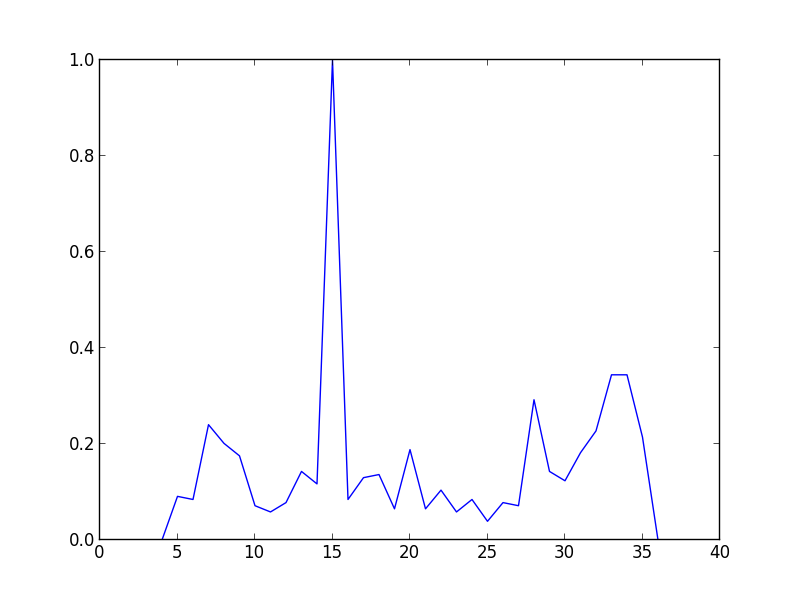
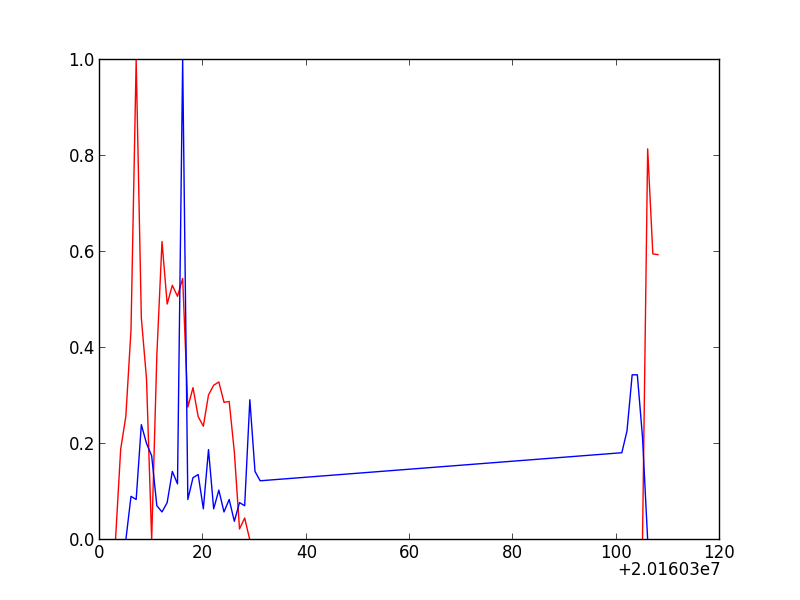
Daily commit

diff --git a/Analysis/TwitterGDELTGraphAnalysis.py b/Analysis/TwitterGDELTGraphAnalysis.py
@@ -10,7 +10,7 @@ from AnalysisObjectFactory import AnalysisObjectFactory
 AnalysisObjectFactory.initialFactory()
 
 def plotTwitter(candidate, start, end):
-    twitter_counts = GetHourlyTweetsDayRange.hourlyTweets(candidate, start, end)
+    twitter_counts, dates = GetHourlyTweetsDayRange.hourlyTweets(candidate, start, end)
     
     #change Nones to 0's
     i = 0
@@ -34,11 +34,12 @@ def plotTwitter(candidate, start, end):
     
     #generate x-axis
     x = list(range(0, len(daily_counts)))
-    plt.plot(x, daily_counts, 'r')
+    print x
+    plt.plot(dates, daily_counts, 'r')
     return daily_counts
 
 def plotGDELT(candidate, start, end):
-    GDELT_counts = GetDailyGDELTCounts.getGDELTCounts(candidate, start, end)
+    GDELT_counts, dates = GetDailyGDELTCounts.getGDELTCounts(candidate, start, end)
 
     #change Nones to 0's
     i = 0
@@ -55,7 +56,7 @@ def plotGDELT(candidate, start, end):
     
     #generate x-axis
     x = list(range(0, len(GDELT_counts)))
-    plt.plot(x, GDELT_counts, 'b')
+    plt.plot(dates, GDELT_counts, 'b')
     return GDELT_counts
 
 def main():
@@ -64,8 +65,8 @@ def main():
         print 'Usage: python TwitterGDELTGraphAnalysis.py <candidate, lower case> <start date> <end date>'
         print 'where date format is YYYYMMDD'
     else:
-        #tweets = plotTwitter(sys.argv[1], sys.argv[2], sys.argv[3])
-        #print len(tweets)
+        tweets = plotTwitter(sys.argv[1], sys.argv[2], sys.argv[3])
+        print len(tweets)
         articles = plotGDELT(sys.argv[1], sys.argv[2], sys.argv[3])
         print len(articles)
         plt.savefig('Twitter_vs_GDELT.png')

diff --git a/Analysis/GetHourlyTweetsDayRange.py b/Analysis/GetHourlyTweetsDayRange.py
@@ -73,7 +73,7 @@ def hourlyTweets(candidate, start, end):
             else:
                 countList.append(None)
             
-    return countList;
+    return countList, dates;
 
 
 def main():

diff --git a/Analysis/GetDailyGDELTCounts.py b/Analysis/GetDailyGDELTCounts.py
@@ -70,7 +70,7 @@ def getGDELTCounts(candidate, start, end):
         else:
             countList.append(None)
             
-    return countList;
+    return countList, dates;
 
 
 def main():
